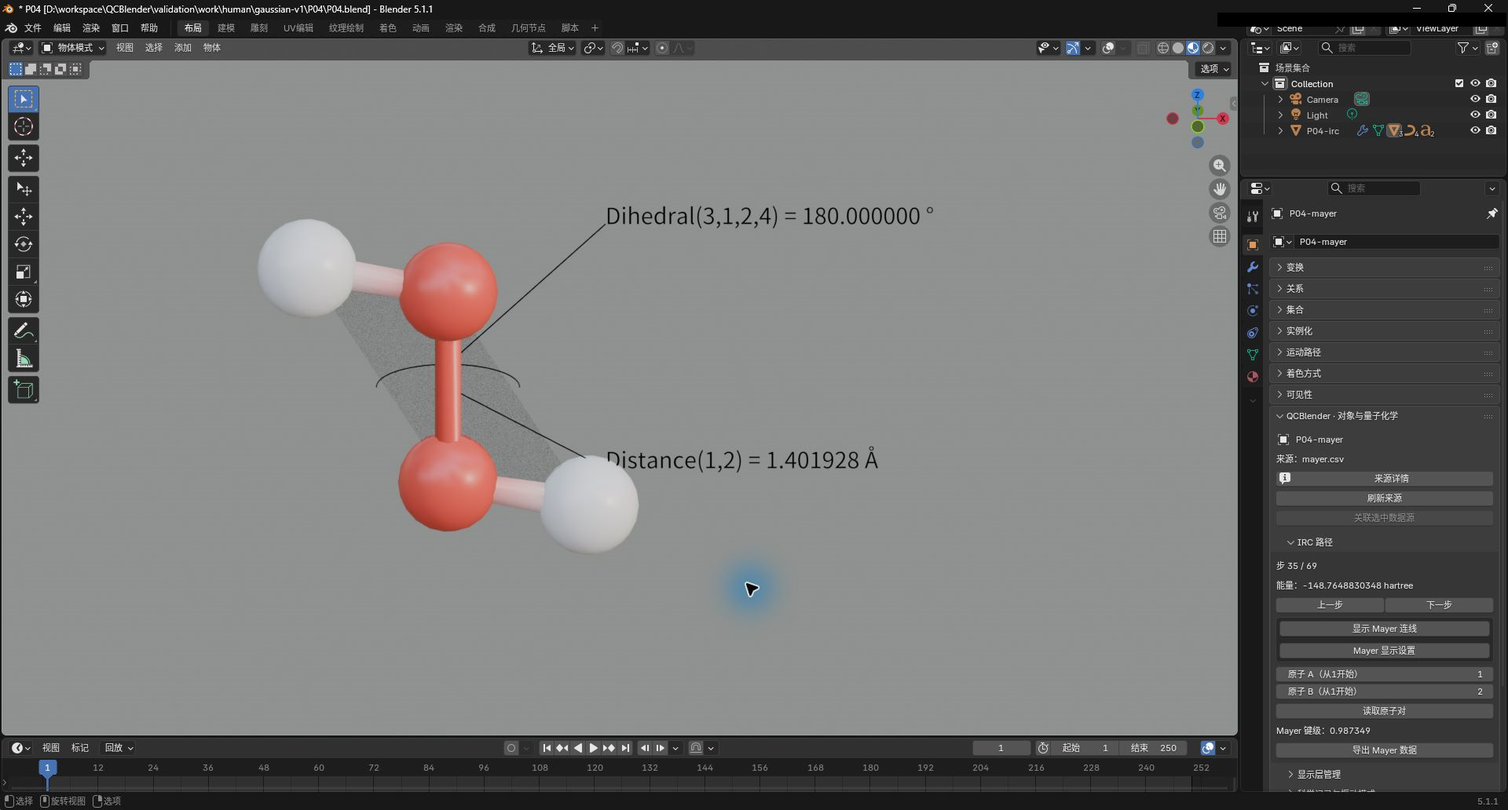
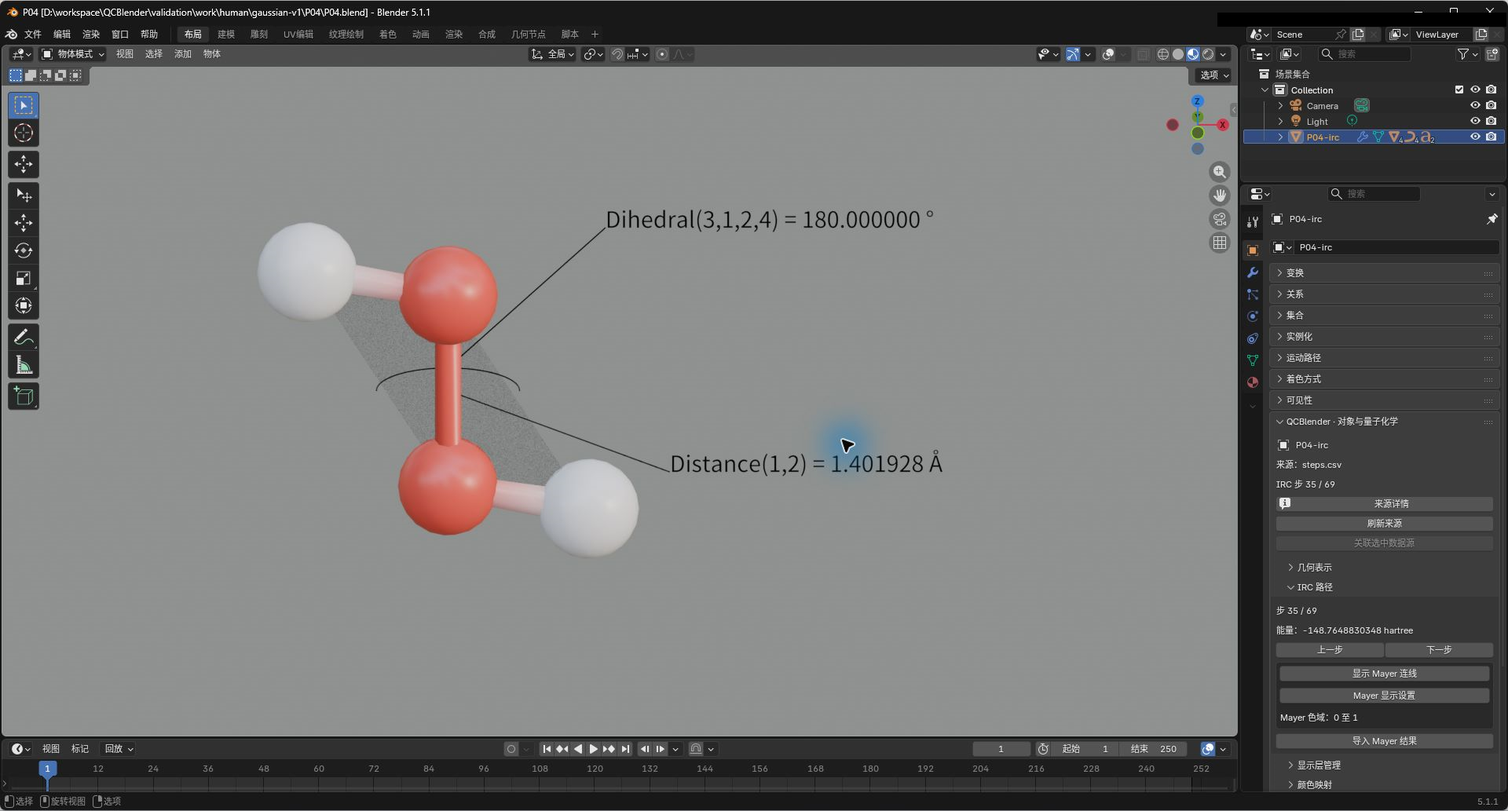
docs: 对照原目标补齐 Gaussian 操作截图

diff --git a/validation/agent/reports/2026-10-24/gaussian-sop/acceptance.md b/validation/agent/reports/2026-10-24/gaussian-sop/acceptance.md
@@ -7,7 +7,7 @@
[3 lines of base64/hex data omitted]
-- 教程：入门主线及 12 个专题，共 98 步、74 张界面图及 1 张渲染；[工程和图片逐项映射](../../../../工程索引.md)。新增 44 张 PNG，重拍受新数据影响的 27 张；3 张未受影响的旧图保持原身份。
+- 教程：入门主线及 12 个专题，共 98 步、78 张界面图及 1 张渲染；[工程和图片逐项映射](../../../../工程索引.md)。首轮新增 44 张 PNG、重拍 27 张；对照最初目标另补 4 张，并重拍原先与 Mayer 图重复的 IRC 总览。当前新增图合计 48 张，3 张未受影响的旧图保持原身份。
 
 ## 实际检查结果
 
@@ -18,12 +18,13 @@
 | 工具检查 | Passed | 当前/历史数据选择、逐文件公开许可、候选及材料工具原有 50 项定向测试；修复历史图片普通链接误报后，15 项材料工具测试通过，保留真孤儿图拒绝门禁；此前 75 项标准库检查及 27 项数据相关检查保留其相应源码身份 |
 | 完整候选 | Passed | 9 项节点资产重建、复用 11 个锁定 wheel；137 个安装文件隔离安装核对，日常安装及旧插件/偏好备份完成 |
 | 真实 MCP | Passed | 主 Agent 独占同一时刻的一个 Blender 进程；P01–P06 使用新波函数/派生文件，实际执行场生成、绑定、选择、筛选、标注、节点、导出、保存和归档 |
-| GUI 观察与截图 | Passed | Computer Use 观察实际计算段选择、文件与参数对话框、切片手柄及结果；全部 44 新图及 27 重拍图由真实会话取得 |
+| GUI 观察与截图 | Passed | 首轮 44 新图及 27 重拍图均由真实会话取得；原目标复核再用真实 MCP 和 Computer Use 补 4 图、重拍 IRC 总览，当前图片身份见 screenshots.json |
+| 原目标复核 | Passed | 185 个当前输入与清单逐文件一致，IRC/Mayer 相对引用完整；新增 4 图、替换 1 图，材料及公开副本为 98 步/79 图/340 链接；P02/P04 及 50 个配套资源原字节保留 |
 | 表面投影及 AICD | Passed | 复用有效投影/全电子数据，实际核对输入声明、显示设置、点值和 π 导入；全电子/π 使用相同显示条件，整体分开展示不改变源坐标或张量 |
 | 保存及串行冷读 | Passed | 21 份新自包含工程逐一在新进程重开；科学数组、资源、对象、材质、节点及持久状态严格比较均为 0 差异；工程均在 `validation/work/human/gaussian-v1/` |
 | 移动与归档解压 | Passed | P03-density-esp 复制移动（82 文件）及 P01 归档解压（37 文件）逐字节一致；两者冷重开严格比较均为 0 差异 |
-| 文档与公开副本 | Passed | 16 个 Markdown、336 个链接、98 个编号步骤、75 个展示图片均完整；独立材料副本同样包含 185 个公开输入及全部图片，排除本地限定输入和工程 |
-| 网站下游 | Passed | 当前交付索引驱动样本提取、许可及下载身份；9 项 Node 检查（含 8 项 Python 检查）、25 个 Astro 文件类型检查和本地构建通过；20 个页面、1471 个内部链接/资源、265 个公开文件 SHA-256 及 98 步/75 图/110 折叠说明静态校验通过 |
+| 文档与公开副本（首轮） | Passed | 首轮 16 个 Markdown、336 个链接、98 个编号步骤、75 个展示图片均完整；独立材料副本同样包含 185 个公开输入及全部图片，排除本地限定输入和工程；本轮新增图片检查见下文 |
+| 网站下游（首轮） | Passed | 当前交付索引驱动样本提取、许可及下载身份；9 项 Node 检查（含 8 项 Python 检查）、25 个 Astro 文件类型检查和本地构建通过；首轮 20 个页面、1471 个内部链接/资源、265 个公开文件 SHA-256 及 98 步/75 图/110 折叠说明静态校验通过 |
 | 本批网站浏览器交互 | Passed | 复用 `2c44aff` 的已验证静态构建；实际核对 P02 四张截图、折叠说明开合、中文搜索“计算段”及 NBO 步骤跳转，浏览器下载 v3 的字节数与 SHA-256 均匹配；本批不发布网站 |
 | 独立人工重放 | Not Run | Agent 的 GUI 观察不作为独立使用者验收 |
 | 独立科研签署 | Not Run | 保留科学方法、网格与 NOCV 近似的实际边界 |
@@ -39,9 +40,31 @@ P02 优化段含多个 SCF 能量，因此静态能量选择仍显示 `ambiguous
 
 2026-10-24 续办浏览器检查复用任务归档中的 342 个构建文件，逐字节核对后仅在本机预览。默认视口为 758×884，P02 四张图片均加载成功、原始宽度 1920、页面显示宽度 711，未见页面横向溢出；说明可展开并收起。中文查询“计算段”显示 6 条结果，点击 NBO 步骤后定位到对应标题。实际下载取得 13,055,318 字节，SHA-256 为上述 v3 摘要。下载接口等待较久，未以等待时间推断网站传输性能。证据为 [P02 说明](browser-p02-details.jpg)、[中文搜索](browser-search.jpg)和[下载入口](browser-download.jpg)。本批标签页及预览进程已关闭；未重算、重建或新增依赖。
 
+## 对照最初目标的复核
+
+以换代前 `72457731` 的 SOP、专题、用户指南及样本声明为基线，对照当前 98 个编号步骤和真实输入；当前 v3 的 185 个文件、许可白名单、摘要及 CRC 再次通过检查。科学数值与原计算身份沿用 science.md，本轮没有重算。
+
+| 原先的取舍 | 当前解决情况 |
+| --- | --- |
+| P01/P03/P05 使用未优化的示例构型和转换波函数 | 已由原方法/基组下的 Gaussian 优化、频率及教学坐标单点替代；P03/P05 显式 5D，P05 显式 UltraFine，派生场从同源波函数生成 |
+| P02 依赖再分发许可未确认的第三方日志，优化、振动、NBO 只在本机案例中说明 | 已有自有两计算段日志和 FCHK、逐文件许可及公开第 12 专题；历史受限原件仍隔离 |
+| P04 教程只给过渡态附近三步及替代程序的 Mayer 文本 | 当前公开全部 69 份接受构型及逐步 Mayer，区分 61 帧 IRC 与 8 帧端点弛豫；教程明确浏览首、TS、末，并有三者实际画面 |
+| P05 片段元数据错误及源构型关系不充分 | CO/BH₃ 为 14/8 电子，片段保留复合物内坐标与构型，表和 Pair 场匹配；能量近似按已确认边界保留 |
+| P06 仍从旧构型派生 | 当前 XYZ 来自新 P03 和 P04 第 1/35/69 帧，精确来源映射随包保存 |
+
+图片复核发现四处值得补充的独有操作或结果：P02 频率段选择、NBO 段/块选择，以及 IRC 两侧末端；现已分别放在专题 12 的步骤 4/7、专题 7 的步骤 3 后。原 `P04-irc.png` 与 Mayer 查询图片完全相同，现重拍为选中 IRC 根对象、显示完整步数和能量的总览，并调整距离标签偏移避免遮挡。通用导入、导出和保存继续共用主线图示。当前共 79 个展示图片引用，98 步及原有锚点不变。
+
+P01 的 Alpha 8/9、Beta 6/7 在原生 FCHK 打印精度下分别同能，自动 HOMO 预览与固定源编号练习可指向不同的同能轨道；正文已解释这一点。工程索引的“PNG 整合进行中”及过期任务入口已修正。
+
+本轮先只读确认没有用户 Blender 进程，随后串行使用已有 P02、P04 自包含工程。P02 的两张新图观察实际参数窗口并取消重复导入；既有完整导入/振动/NBO 行为证据继续保持其原身份。P04 通过原生切步操作实际到第 1、69 步，再返回第 35 步；GUI 中的步数、能量和标注与源数据一致。P02/P04 的 `.blend` 和全部 50 个配套资源与原有效基线逐字节一致，本轮未覆盖保存，所以复用既有冷读结果。实际观察与核对收据位于 `.tmp/runs/sop-scope-audit-20261024/`。
+
+材料及独立公开副本检查 Passed：16 个 Markdown、340 个链接、98 步、79 个展示图片引用均完整，输入仍为 185 个。新增图的网站构建和静态校验 Passed：20 页、1475 个内部链接/资源、269 个公开文件 SHA-256 匹配，110 个折叠说明及既有锚点保留。首次网站检查正确拒绝了旧版生成副本；31 个副本经旧清单逐文件核对后保全到本轮忽略目录，再按当前清单生成通过，原科学输入及 v2 包保持原位。新图和正文未改变网站交互实现，原构建的浏览器证据保留原身份。
+
+保留的边界：NOCV 能量仍是用户确认的实际复合物 KS 近似；P04 的完整路径采用 geomeTRIC 积分与 Gaussian 实算能量/梯度，原生 Gaussian IRC 失败尝试未被改记为成功。专题 10/11 继续使用已确认保留的本机限定输入；这一分发范围不属于缺少 Gaussian 造成的缺口。独立人工重放、科研签署和发布仍为 Not Run。
+
 ## 图片、隐私与历史边界
 
-[screenshots.json](screenshots.json) 记录 71 张本批 PNG 的摘要、原始捕获摘要、时间及脱敏矩形。原始 JPEG 只解码为 PNG，不缩放、增强或重绘。本批图片遮盖窗口顶部的机器性能叠加信息，`P06-nodes-make-local.png` 另遮盖外部库的本机安装路径；其余像素保持原捕获。原件与最终图片的对应表私存于 `.tmp/runs/sop-gaussian-20261024/screenshot-conversion.json`。公开日志保留科学数值，服务器、账号、连接、安装位置和机器运行收据保留在忽略目录。
+[screenshots.json](screenshots.json) 记录 75 张当前 PNG 的摘要、原始捕获摘要、时间及脱敏矩形；IRC 重拍前的记录保存在该条目的 `previous_captures` 中。原始 JPEG 只解码为 PNG，不缩放、增强或重绘。本批图片遮盖窗口顶部的机器性能叠加信息，`P06-nodes-make-local.png` 另遮盖外部库的本机安装路径；其余像素保持原捕获。原件与最终图片的对应表分别私存于 `.tmp/runs/sop-gaussian-20261024/screenshot-conversion.json` 和 `.tmp/runs/sop-scope-audit-20261024/screenshot-conversion.json`。公开日志保留科学数值，服务器、账号、连接、安装位置和机器运行收据保留在忽略目录。
 
 旧输入、冻结 manifest、v2 ZIP、36 份历史工程和旧批次验收不覆盖；历史图片可由基线 `72457731` 定位。当前数据的公开 P02 为自有输出，历史受限 P02 继续按具体文件许可隔离。恢复历史样本须显式选择 `legacy-v2`。
 

diff --git a/validation/工程索引.md b/validation/工程索引.md
@@ -1,10 +1,10 @@
 # 教程、图片与工程索引
 
-从[人工 SOP](human/SOP.md)学习操作；下面按当前正文定位全部 **98 个编号步骤、75 个展示图片引用**（74 张界面图、1 张渲染图）。44 张新增截图及 27 张重拍图已转为 PNG 并落盘，图片文件和独立公开副本检查均通过；未受影响的旧图及历史渲染保留原身份。打开 `.blend` 前先安装随包的 QCBlender，并保留同名 `.qcdata/` 目录。
+从[人工 SOP](human/SOP.md)学习操作；下面按当前正文定位全部 **98 个编号步骤、79 个展示图片引用**（78 张界面图、1 张渲染图）。初轮 44 张新增截图及 27 张重拍图已落盘；本轮另补 4 张并重拍 IRC 总览，图片文件和独立公开副本检查均通过；未受影响的旧图及历史渲染保留原身份。打开 `.blend` 前先安装随包的 QCBlender，并保留同名 `.qcdata/` 目录。
 
 当前 Gaussian 工程位于 `work/human/gaussian-v1/`，对应仓库的 `validation/work/human/gaussian-v1/`；公开科学输入来自 `shared/data/public/gaussian-v1/`。旧 `work/human/P01/` 等目录保留历史工程身份。表面距离投影和 AICD 沿用各自有效的本机限定输入与既有工程。
 
-**运行状态（2026-10-24）：当前 21 份新工程均已保存；P04、P05、P06、P06-nodes 及专题 10/11 新副本的实际冷读 Passed、0 差异。44 张新增截图已拍摄，PNG 转换与落盘整合进行中。独立人工与科研验收 Not Run。**“已保存”仅表示工程和配套目录已落盘，本页不把文件存在视为冷读或独立验收通过。
+**运行状态（2026-10-24）：21 份当前工程均已保存并完成串行冷读，0 差异；累计 48 张新增截图及 27 张重拍图均为实际操作捕获的 PNG，图片与工程逐项映射如下。独立人工与科研验收 Not Run。**冷读范围及证据见[本批验收](agent/reports/2026-10-24/gaussian-sop/acceptance.md)。
 
 工程用于继续编辑和对照画面。导入、输入及确认弹窗不会随工程保存；从对应步骤重新打开并按正文填写参数。表中的主工程可覆盖多个练习步骤，不要求每一步另存检查点。
 
@@ -78,7 +78,7 @@
 | 06-esp-aim:6 | [浏览 AIM 路径记录并观察曲线](human/topics/06-esp-aim.md#step-06) | [P03-aim-paths](human/screenshots/P03-aim-paths.png) | [P03-esp-aim](work/human/gaussian-v1/P03/P03-esp-aim.blend) |
 | 07-irc-mayer:1 | [导入完整 IRC 路径](human/topics/07-irc-mayer.md#step-01) | — | [P04](work/human/gaussian-v1/P04/P04.blend) |
 | 07-irc-mayer:2 | [创建随构型更新的测量标注](human/topics/07-irc-mayer.md#step-02) | — | [P04](work/human/gaussian-v1/P04/P04.blend) |
-| 07-irc-mayer:3 | [切换构型并比较能量与标注](human/topics/07-irc-mayer.md#step-03) | [P04-irc](human/screenshots/P04-irc.png) | [P04](work/human/gaussian-v1/P04/P04.blend) |
+| 07-irc-mayer:3 | [切换构型并比较能量与标注](human/topics/07-irc-mayer.md#step-03) | [P04-irc-start](human/screenshots/P04-irc-start.png)、[P04-irc](human/screenshots/P04-irc.png)、[P04-irc-end](human/screenshots/P04-irc-end.png) | [P04](work/human/gaussian-v1/P04/P04.blend) |
 | 07-irc-mayer:4 | [导入各步的 Mayer 键级](human/topics/07-irc-mayer.md#step-04) | [P04-mayer-import](human/screenshots/P04-mayer-import.png) | [P04](work/human/gaussian-v1/P04/P04.blend) |
 | 07-irc-mayer:5 | [选择原子对并比较随步键级](human/topics/07-irc-mayer.md#step-05) | [P04-mayer](human/screenshots/P04-mayer.png) | [P04](work/human/gaussian-v1/P04/P04.blend) |
 | 07-irc-mayer:6 | [按 Mayer 键级着色并筛选连线](human/topics/07-irc-mayer.md#step-06) | [P04-mayer-colors](human/screenshots/P04-mayer-colors.png) | [P04](work/human/gaussian-v1/P04/P04.blend) |
@@ -105,10 +105,10 @@
 | 12-gaussian-log:1 | [导入优化计算段](human/topics/12-gaussian-log.md#step-01) | [P02-gaussian-job-selection](human/screenshots/P02-gaussian-job-selection.png) | [P02-gaussian](work/human/gaussian-v1/P02/P02-gaussian.blend) |
 | 12-gaussian-log:2 | [创建优化轨迹视图](human/topics/12-gaussian-log.md#step-02) | — | [P02-gaussian](work/human/gaussian-v1/P02/P02-gaussian.blend) |
 | 12-gaussian-log:3 | [切换优化步并比较收敛记录](human/topics/12-gaussian-log.md#step-03) | [P02-optimization-step](human/screenshots/P02-optimization-step.png) | [P02-gaussian](work/human/gaussian-v1/P02/P02-gaussian.blend) |
-| 12-gaussian-log:4 | [导入频率计算段](human/topics/12-gaussian-log.md#step-04) | — | [P02-gaussian](work/human/gaussian-v1/P02/P02-gaussian.blend) |
+| 12-gaussian-log:4 | [导入频率计算段](human/topics/12-gaussian-log.md#step-04) | [P02-frequency-job-selection](human/screenshots/P02-frequency-job-selection.png) | [P02-gaussian](work/human/gaussian-v1/P02/P02-gaussian.blend) |
 | 12-gaussian-log:5 | [选择振动模式并播放](human/topics/12-gaussian-log.md#step-05) | [P02-vibration-mode](human/screenshots/P02-vibration-mode.png) | [P02-gaussian](work/human/gaussian-v1/P02/P02-gaussian.blend) |
 | 12-gaussian-log:6 | [查看位移矢量并导出 IR](human/topics/12-gaussian-log.md#step-06) | — | [P02-gaussian](work/human/gaussian-v1/P02/P02-gaussian.blend) |
-| 12-gaussian-log:7 | [导入指定计算段的 NBO 块](human/topics/12-gaussian-log.md#step-07) | — | [P02-gaussian](work/human/gaussian-v1/P02/P02-gaussian.blend) |
+| 12-gaussian-log:7 | [导入指定计算段的 NBO 块](human/topics/12-gaussian-log.md#step-07) | [P02-nbo-block-selection](human/screenshots/P02-nbo-block-selection.png) | [P02-gaussian](work/human/gaussian-v1/P02/P02-gaussian.blend) |
 | 12-gaussian-log:8 | [浏览和筛选 NBO 记录](human/topics/12-gaussian-log.md#step-08) | [P02-nbo-browser](human/screenshots/P02-nbo-browser.png) | [P02-gaussian](work/human/gaussian-v1/P02/P02-gaussian.blend) |
 
 ## 按截图查找
@@ -165,7 +165,9 @@
 | [同源AIM临界点、路径和临界点属性三份输入](human/screenshots/P03-aim-import.png) | [06-esp-aim:4](human/topics/06-esp-aim.md#step-04) | [P03-esp-aim](work/human/gaussian-v1/P03/P03-esp-aim.blend) |
 | [AIM 源点 8 的位置及电子密度属性](human/screenshots/P03-aim-point.png) | [06-esp-aim:5](human/topics/06-esp-aim.md#step-05) | [P03-esp-aim](work/human/gaussian-v1/P03/P03-esp-aim.blend) |
 | [水二聚体的 AIM 路径及所选路径点数](human/screenshots/P03-aim-paths.png) | [06-esp-aim:6](human/topics/06-esp-aim.md#step-06) | [P03-esp-aim](work/human/gaussian-v1/P03/P03-esp-aim.blend) |
+| [完整路径第1步的反向末端、负扭转角和电子能量](human/screenshots/P04-irc-start.png) | [07-irc-mayer:3](human/topics/07-irc-mayer.md#step-03) | [P04](work/human/gaussian-v1/P04/P04.blend) |
 | [69步完整路径中的过渡态构型、能量和随步二面角](human/screenshots/P04-irc.png) | [07-irc-mayer:3](human/topics/07-irc-mayer.md#step-03) | [P04](work/human/gaussian-v1/P04/P04.blend) |
+| [完整路径第69步的正向末端、正扭转角及停用的下一步按钮](human/screenshots/P04-irc-end.png) | [07-irc-mayer:3](human/topics/07-irc-mayer.md#step-03) | [P04](work/human/gaussian-v1/P04/P04.blend) |
 | [当前IRC路径对应的逐步Mayer清单导入入口](human/screenshots/P04-mayer-import.png) | [07-irc-mayer:4](human/topics/07-irc-mayer.md#step-04) | [P04](work/human/gaussian-v1/P04/P04.blend) |
 | [IRC 当前步与原子对 1、2 的 Mayer 键级](human/screenshots/P04-mayer.png) | [07-irc-mayer:5](human/topics/07-irc-mayer.md#step-05) | [P04](work/human/gaussian-v1/P04/P04.blend) |
 | [Mayer 独立连线、固定色域与键级下限](human/screenshots/P04-mayer-colors.png) | [07-irc-mayer:6](human/topics/07-irc-mayer.md#step-06) | [P04](work/human/gaussian-v1/P04/P04.blend) |
@@ -188,14 +190,16 @@
 | [全电子在左、π在右的AICD比较；相同等值值、负Z单位场、250个箭头、缩放3和不透明度0.45](human/screenshots/AICD01-all-pi.png) | [11-aicd:5](human/topics/11-aicd.md#step-05) | [AICD01](work/human/gaussian-v1/AICD01.blend)（沿用本机限定输入） |
 | [Gaussian日志第1计算段的Opt任务、正常结束状态与ambiguous静态能量选择](human/screenshots/P02-gaussian-job-selection.png) | [12-gaussian-log:1](human/topics/12-gaussian-log.md#step-01) | [P02-gaussian](work/human/gaussian-v1/P02/P02-gaussian.blend) |
 | [第5优化步的水分子、电子能量和源收敛记录](human/screenshots/P02-optimization-step.png) | [12-gaussian-log:3](human/topics/12-gaussian-log.md#step-03) | [P02-gaussian](work/human/gaussian-v1/P02/P02-gaussian.blend) |
+| [第2计算段的Freq和Pop=NBO任务、正常结束及可用电子能量](human/screenshots/P02-frequency-job-selection.png) | [12-gaussian-log:4](human/topics/12-gaussian-log.md#step-04) | [P02-gaussian](work/human/gaussian-v1/P02/P02-gaussian.blend) |
 | [第3源模式的频率、IR强度、振动振幅和播放设置](human/screenshots/P02-vibration-mode.png) | [12-gaussian-log:5](human/topics/12-gaussian-log.md#step-05) | [P02-gaussian](work/human/gaussian-v1/P02/P02-gaussian.blend) |
+| [NBO导入选择第2计算段、第1个块，并使用同段静态水分子作为参考](human/screenshots/P02-nbo-block-selection.png) | [12-gaussian-log:7](human/topics/12-gaussian-log.md#step-07) | [P02-gaussian](work/human/gaussian-v1/P02/P02-gaussian.blend) |
 | [第2计算段第1个NBO块的轨道1与第一条E(2)记录](human/screenshots/P02-nbo-browser.png) | [12-gaussian-log:8](human/topics/12-gaussian-log.md#step-08) | [P02-gaussian](work/human/gaussian-v1/P02/P02-gaussian.blend) |
 
 ## 全部保存工程
 
 ### 当前 Gaussian 工程与已保存检查点
 
-以下工程及同名 `.qcdata/` 已保存；冷读完成范围由本批实际运行状态更新。
+以下 21 份工程及同名 `.qcdata/` 均已保存并完成冷读，0 差异；复查取图保留原文件字节。
 
 | 工程 | 用途 |
 | --- | --- |
@@ -221,7 +225,8 @@
 | [work/human/gaussian-v1/SD01-projection.blend](work/human/gaussian-v1/SD01-projection.blend) | 表面距离投影；沿用本机限定科学输入；已保存，冷读 Passed、0 差异 |
 | [work/human/gaussian-v1/AICD01.blend](work/human/gaussian-v1/AICD01.blend) | 全电子与π AICD；沿用本机限定科学输入；已保存，冷读 Passed、0 差异 |
 
-### 实施中的主工程
+<a id="实施中的主工程"></a>
+### 工程验证范围
 
 当前列出的 21 份新工程均已保存并逐一冷读通过，0 差异；截图 PNG 已落盘并核对完整。实际范围与独立验收状态见[本批验收](agent/reports/2026-10-24/gaussian-sop/acceptance.md)。
 

diff --git a/docs/ARTIFACTS.md b/docs/ARTIFACTS.md
@@ -10,7 +10,7 @@ AICD 公开资料（2026-10-23）保存在 `submodules/AICD/reference-public-202
 
 开发流程工具已完成技术验收：[入口](agents/development-workflow.md)、[当前结果](../validation/agent/acceptance/dev-workflow.md)，日志与规则备份当前位置由本次迁移映射定位，正式记录在 `validation/agent/reports/2026-10-16/dev-workflow-20261016/legacy-outputs/`。真实 MCP、构建安装和原工程恢复 Passed；当前有效候选见下表。
 
-从 [validation](../validation/README.md) 查找当前教程、输入和校验材料；人工入口为 [SOP](../validation/human/SOP.md)。当前主线及 12 个按需专题共 98 步、75 个展示图片引用；2026-10-21 完成的 79 步和 27 张截图保留当时身份。Gaussian 换代及各批实际复验范围见对应验收。
+从 [validation](../validation/README.md) 查找当前教程、输入和校验材料；人工入口为 [SOP](../validation/human/SOP.md)。当前主线及 12 个按需专题共 98 步、79 个展示图片引用；2026-10-21 完成的 79 步和 27 张截图保留当时身份。Gaussian 换代及各批实际复验范围见对应验收。
 
 | 内容 | 当前入口 |
 | --- | --- |
@@ -30,7 +30,7 @@ AICD 公开资料（2026-10-23）保存在 `submodules/AICD/reference-public-202
 
 当前科学输入为 `validation/shared/data/public/gaussian-v1/`，可从 v3 包及当前交付索引用 `python tools/prepare_validation_data.py --dataset current --report .tmp/runs/restore-gaussian-data.json` 恢复（报告路径需尚不存在）；保留显式历史恢复入口。[科学摘要](../validation/agent/reports/2026-10-24/gaussian-sop/science.md)记录优化、频率、基函数表示、统一构型、完整路径、Mayer、NOCV 及同源 XYZ。P04 使用 geomeTRIC 积分与实际 Gaussian 能量/梯度，原生 IRC 失败尝试保留；NOCV 仍为实际复合物 KS 近似，未宣称严格 `F_TS`。
 
-公开 P02 第 12 专题、44 张新增 PNG、27 张重拍图及新渲染已完成。21 份自包含工程在 `validation/work/human/gaussian-v1/`，步骤与图片逐项见[工程索引](../validation/工程索引.md)。保存基线、MCP 收据、冷读及代表移动/解包的原始记录在 `.tmp/runs/sop-gaussian-20261024/`；科学原件由摘要中的忽略目录入口定位。[本批验收](../validation/agent/reports/2026-10-24/gaussian-sop/acceptance.md)区分实际运行、GUI 观察及独立验收。旧输入、v2 包、历史工程及原始截图记录保留；独立人工/科研签署及发布 Not Run。本地归档标签为 `archive/2026-10-24/sop-gaussian-20261024`，不 push。
+公开 P02 第 12 专题、首轮 44 张新增 PNG、27 张重拍图及新渲染已完成。原目标复查另补 P02 频率段、NBO 段/块选择和 IRC 两端共 4 张图，并重拍 IRC 总览，当前新增图共 48 张；本轮取图与原件字节核对记录位于 `.tmp/runs/sop-scope-audit-20261024/`。21 份自包含工程在 `validation/work/human/gaussian-v1/`，步骤与图片逐项见[工程索引](../validation/工程索引.md)。保存基线、MCP 收据、冷读及代表移动/解包的原始记录在 `.tmp/runs/sop-gaussian-20261024/`；科学原件由摘要中的忽略目录入口定位。[本批验收](../validation/agent/reports/2026-10-24/gaussian-sop/acceptance.md)区分实际运行、GUI 观察及独立验收。旧输入、v2 包、历史工程及原始截图记录保留；独立人工/科研签署及发布 Not Run。本地归档标签为 `archive/2026-10-24/sop-gaussian-20261024`，不 push。
 
 <a id="aicd-20261023"></a>
 ## AICD 张量与单位磁场响应（2026-10-23）

diff --git a/validation/human/topics/12-gaussian-log.md b/validation/human/topics/12-gaussian-log.md
@@ -88,7 +88,12 @@
 ### 4. 导入频率计算段
 
 - 再次使用 **导入 Gaussian / Cube / XYZ（Import Gaussian / Cube / XYZ）**，选择同一输入 `shared/data/public/gaussian-v1/P02/water_neutral_nbo_opt_freq.out`，这次在 **选择 Gaussian 计算段（Choose Gaussian Calculation）** 选择第 **2** 段。
-- 核对 route 含 **Freq** 和 **Pop=NBO** 后确认，将新原子对象命名为 **P02-frequency**。在 Outliner 隐藏优化轨迹，保留本频率对象可见。
+- 核对 route 含 **Freq** 和 **Pop=NBO**、状态为正常结束，电子能量约为 **−74.9659012171 hartree**。
+- 截图保存为 `human/screenshots/P02-frequency-job-selection.png`。
+
+![第2计算段的Freq和Pop=NBO任务、正常结束及可用电子能量](../screenshots/P02-frequency-job-selection.png)
+
+- 点击 **确定（OK）**，将新原子对象命名为 **P02-frequency**。在 Outliner 隐藏优化轨迹，保留本频率对象可见。
 - 选 **P02-frequency** 并重新打开对象属性，展开 **科学记录与振动模式（Scientific Records and Vibration Modes）**。本段只有一次 SCF 求值，电子能量可用（available）；应有三个源振动模式，电子能量约为 **−74.9659012171 hartree**。
 
 | 源模式 | 频率（cm⁻¹） | IR 强度（km/mol） |
@@ -139,8 +144,12 @@
 
 - 保持静态 **P02-frequency** 活动，点击 **N 侧栏 → 导入与导出（Import and Export） → 导入外部结果（Import External Results） → 原子与键分析（Atom and Bond Analysis） → NBO 记录（NBO Records）**。
 - 将 **Gaussian Log / Out** 指向 `shared/data/public/gaussian-v1/P02/water_neutral_nbo_opt_freq.out`，先确认以检查日志。
-- 检查完成后的编号对话框中，设 **Gaussian 计算段（从1开始）（Gaussian job (1-based)）=2**、**计算段内 NBO 块（从1开始）（NBO block within job (1-based)）=1**，再确认。
-- 应新增并选中 **QC NBO: water_neutral_nbo_opt_freq.out**。重新打开它的对象属性，核对记录的计算段与 NBO 块。
+- 检查完成后的编号对话框中，设 **Gaussian 计算段（从1开始）（Gaussian job (1-based)）=2**、**计算段内 NBO 块（从1开始）（NBO block within job (1-based)）=1**，核对当前静态参考对象仍为 **P02-frequency**。
+- 截图保存为 `human/screenshots/P02-nbo-block-selection.png`。
+
+![NBO导入选择第2计算段、第1个块，并使用同段静态水分子作为参考](../screenshots/P02-nbo-block-selection.png)
+
+- 点击 **确定（OK）** 后，应新增并选中 **QC NBO: water_neutral_nbo_opt_freq.out**。重新打开它的对象属性，核对记录的计算段与 NBO 块。
 
 <details>
 <summary>理解 NBO、块编号与参考构型</summary>

diff --git a/validation/README.md b/validation/README.md
@@ -2,7 +2,7 @@
 
 人工操作从 [SOP](human/SOP.md) 开始，按目录选择需要学习的专题。完整材料包含安装包和案例输入，适用 Windows x64、Blender 5.1.1、QCBlender 0.1.0。
 
-当前教程包含主线及 12 个专题，共 **98 个编号步骤、75 个展示图片引用**。按[工程索引](工程索引.md)查找步骤、图片与工程；当前 Gaussian 工程位于 `work/human/gaussian-v1/`，科学输入位于 `shared/data/public/gaussian-v1/`。21 份新工程均已保存并冷读通过，0 差异。44 张新增截图及 27 张重拍图已转为 PNG 并落盘；材料和独立公开副本检查通过，独立人工和科研验收 Not Run。详见[本批验收](agent/reports/2026-10-24/gaussian-sop/acceptance.md)。
+当前教程包含主线及 12 个专题，共 **98 个编号步骤、79 个展示图片引用**。按[工程索引](工程索引.md)查找步骤、图片与工程；当前 Gaussian 工程位于 `work/human/gaussian-v1/`，科学输入位于 `shared/data/public/gaussian-v1/`。21 份新工程均已保存并冷读通过，0 差异。首轮新增 44 张截图，原目标复查另补 4 张，并重拍 IRC 总览；当前共 48 张新增图及 27 张重拍图，均已转为 PNG。材料和独立公开副本检查通过，独立人工和科研验收 Not Run。详见[本批验收](agent/reports/2026-10-24/gaussian-sop/acceptance.md)。
 
 旧 `work/human/P01/` 等目录及其 36 份工程保留历史身份。2026-10-22 的迁移与旧副本清理见[迁移记录](agent/acceptance/delivery-consolidation.md)，当时检查点的生成与保存前验证见[补验记录](agent/acceptance/checkpoint-rebuild.md)；这些旧记录不代表当前 Gaussian 案例已完成验证。
 
@@ -65,4 +65,4 @@
 
 ## 开发维护
 
-当前整理规格与执行状态见[教程截图任务](../.scratch/tutorial-screenshots-20261011/spec.md)。新检出准备数据的方法见[数据目录](shared/data/README.md)；技术核对和清理收据与人工教程分开维护。发布前通过 [Agent 文档检查](agent/README.md#教程材料与完整图片检查)确认图片已补齐。全仓工程及历史证据仍由 [ARTIFACTS](../docs/ARTIFACTS.md) 路由。
+当前整理规格与执行状态见[Gaussian 教程任务](../.scratch/sop-gaussian-20261024/spec.md)及[原目标复查](../.scratch/sop-gaussian-20261024/issues/05-original-goal-audit.md)。新检出准备数据的方法见[数据目录](shared/data/README.md)；技术核对和清理收据与人工教程分开维护。发布前通过 [Agent 文档检查](agent/README.md#教程材料与完整图片检查)确认图片已补齐。全仓工程及历史证据仍由 [ARTIFACTS](../docs/ARTIFACTS.md) 路由。

diff --git a/validation/human/topics/07-irc-mayer.md b/validation/human/topics/07-irc-mayer.md
@@ -79,6 +79,10 @@
 <a id="step-03"></a>
 ### 3. 切换构型并比较能量与标注
 
+- 先停在第 **1** 步，核对 **O–O 距离约 1.396248 Å、二面角约 −124.990583°、能量 −148.7649966564 hartree**。截图保存为 `human/screenshots/P04-irc-start.png`。
+
+![完整路径第1步的反向末端、负扭转角和电子能量](../screenshots/P04-irc-start.png)
+
 - 从第 1 步开始，在 **IRC 路径（IRC Path）** 使用 **下一步（Next）** 逐步到第 **35** 步，途中观察步号、能量及构型变化；第 35 步是过渡态。再点一次 **下一步（Next）** 到第 **36** 步，随后点 **上一步（Previous）** 回第 **35** 步。
 - 第 35 步应显示 **O–O 距离约 1.401928 Å、二面角约 +180.000000°、能量 −148.7648830348 hartree**。第 36 步二面角约为 **171.760522°**，能量约 **−148.7648844777 hartree**。
 - 需要观察另一侧相邻构型时，在第 35 步点击 **上一步（Previous）** 到第 **34** 步，二面角约为 **−171.760522°**；再返回第 35 步。±180° 是有符号二面角的区间边界，两侧接近该平面时会跨过这个符号边界。
@@ -88,11 +92,19 @@
 | 第1步 | 1.396248 | −124.990583 |
 | 第35步 | 1.401928 | +180.000000 |
 | 第69步 | 1.396248 | +124.990582 |
+
 - 面板步号、文字读数与测量几何应一起更新；来源构型保留在科学记录中，不额外拼入默认文字。
 - 二面角无法定义时会显示 `undefined`（未定义）并隐藏无效几何，不沿用上一构型的圆弧或面。
 - 截图保存为 `human/screenshots/P04-irc.png`。
 
 ![69步完整路径中的过渡态构型、能量和随步二面角](../screenshots/P04-irc.png)
+
+- 继续使用 **下一步（Next）** 到第 **69** 步，核对 **O–O 距离约 1.396248 Å、二面角约 +124.990582°、能量 −148.7649966564 hartree**；此时 **下一步（Next）** 停用。两侧末端能量接近，二面角符号不同，不能只凭能量判断当前位于哪一侧。
+- 截图保存为 `human/screenshots/P04-irc-end.png`。
+
+![完整路径第69步的正向末端、正扭转角及停用的下一步按钮](../screenshots/P04-irc-end.png)
+
+- 用 **上一步（Previous）** 返回第 **35** 步，供下面的 Mayer 键级比较使用。
 
 <details>
 <summary>了解切步按钮与关联状态</summary>

diff --git a/docs/CHANGELOG.md b/docs/CHANGELOG.md
@@ -1,5 +1,7 @@
 # 开发演进
 
+- 2026-10-24：对照最初的 Gaussian 与截图目标复查，补齐 P02 频率段、NBO 段/块选择及 IRC 两侧末端 4 张截图，重拍重复的 IRC 总览；当前为 98 步、79 个展示图片引用。正文明确浏览完整路径两端，并解释 P01 同能轨道的预览与固定编号；修正工程索引的过期进行中状态和任务入口。复用原科学数据及工程，P02/P04 与 50 个配套资源字节未变；实际 MCP 切步和 Computer Use 观察通过。NOCV KS 近似及 Gaussian 原生 IRC 未完成的边界保留；独立人工/科研和发布 Not Run，本地提交，不 push。详见[原目标复核](../validation/agent/reports/2026-10-24/gaussian-sop/acceptance.md#对照最初目标的复核)。
+
 - 2026-10-24：以真实 Gaussian 重算并优化 P01–P05，生成含自有 P02 的 Gaussian-v1/v3 公开样本，公开完整 69 帧双向路径及逐步 Mayer，P06 从新构型派生；保留 P05 冻结片段与实际复合物 KS 的 NOCV 近似。修复真实多计算段日志识别和历史图片普通链接误报，当前/历史样本按版本及逐文件许可选择。新增第 12 专题、44 张 PNG，重拍 27 张旧图；21 新工程串行冷读及代表移动/归档解压均 Passed、0 差异。完整候选构建、隔离/日常安装、实际 MCP/GUI 与公开材料副本检查 Passed；续办补齐 P02 展示、中文搜索、锚点跳转及实际 v3 下载的浏览器验收。独立人工/科研与发布 Not Run。详见[本批验收](../validation/agent/reports/2026-10-24/gaussian-sop/acceptance.md)；本地归档，不推送。
 
 - 2026-10-23：修复教程检查器将 AICD 来源 JSON 的 `sha256` 字段和 `Get-FileHash` 输入准备命令误判为技术验收流程的问题。哈希名称本身不再触发禁词规则，结果填写、验收签署、记录模板及状态词仍被拦截，包括折叠说明内的内容。12 项相关测试及完整教程材料检查（含必需图片）Passed；仅修改检查器与回归测试，Blender 验证 Not Run。证据见 `validation/agent/reports/2026-10-23/tutorial-hash-checker/`。

diff --git a/.scratch/sop-gaussian-20261024/issues/05-original-goal-audit.md b/.scratch/sop-gaussian-20261024/issues/05-original-goal-audit.md
@@ -1,0 +1,15 @@
+# 对照最初目标检查与补齐
+
+Triage: ready-for-agent
+Status: resolved
+Blocked by: 03
+
+## 验收
+
+对照换代前教程及当前实际输入，核对原先因缺少 Gaussian 造成的流程妥协；逐步骤检查截图覆盖并修正确认遗漏。保留已经确认的科学近似与独立验收边界，复用有效工程，不重复计算。完成后本地提交，不 push。
+
+## Comments
+
+基线为 `72457731`，复查起点为 `732e23d`。已确认受限 P02、未优化静态样例及三步 IRC 展示均有当前数据替代。截图补充范围为 P02 第二计算段、NBO 段/块选择、P04 两侧末端；重拍与 Mayer 截图重复的 IRC 总览。当前没有用户 Blender 进程，复用原自包含工程取图并保留原件。
+
+Answer：确认的遗漏已补齐。新增 4 张、重拍 IRC 总览，当前共 98 步、79 个展示图片引用；补充 P01 同能轨道解释，修正工程索引和旧任务入口。185 个输入、材料与独立副本 340 链接、20 页网站静态校验通过；P02/P04 和 50 个资源字节未变，复用原冷读证据。MCP 实际切步与 GUI 观察通过，原生 Gaussian IRC 未完成和 NOCV KS 近似按既有边界保留；独立人工、科研签署及发布 Not Run。完整逐项结论在原 acceptance.md；本地提交，不 push。

diff --git a/.scratch/sop-gaussian-20261024/spec.md b/.scratch/sop-gaussian-20261024/spec.md
@@ -25,5 +25,6 @@ Baseline: 72457731d30a030edf399af6f88d5a374353cac5
 2. [02 教程与截图](issues/02-tutorial-images.md)：真实数值更新、44 张新图及受影响旧图、步骤图片工程索引、公开边界检查通过。
 3. [03 集成与本地交付](issues/03-validation-delivery.md)：MCP 实例身份、实际操作、工程冷读、代表性移动与归档、材料与隐私检查、准确提交及本地归档。
 4. [04 续办浏览器补验](issues/04-browser-followup.md)：复用已验证构建，核对新 P02、中文搜索、截图、折叠说明和实际下载；只补记录并本地提交。
+5. [05 对照最初目标复查](issues/05-original-goal-audit.md)：核对 Gaussian 妥协的当前解决状态、截图覆盖与原件保留，补齐确认遗漏。
 
 独立人工及科研验收分别维护；未执行不标记通过。当前基线材料只读检查通过：30 个公开输入、30 张截图与 1 张渲染图，无缺图；不是本批重算或新截图验收。
